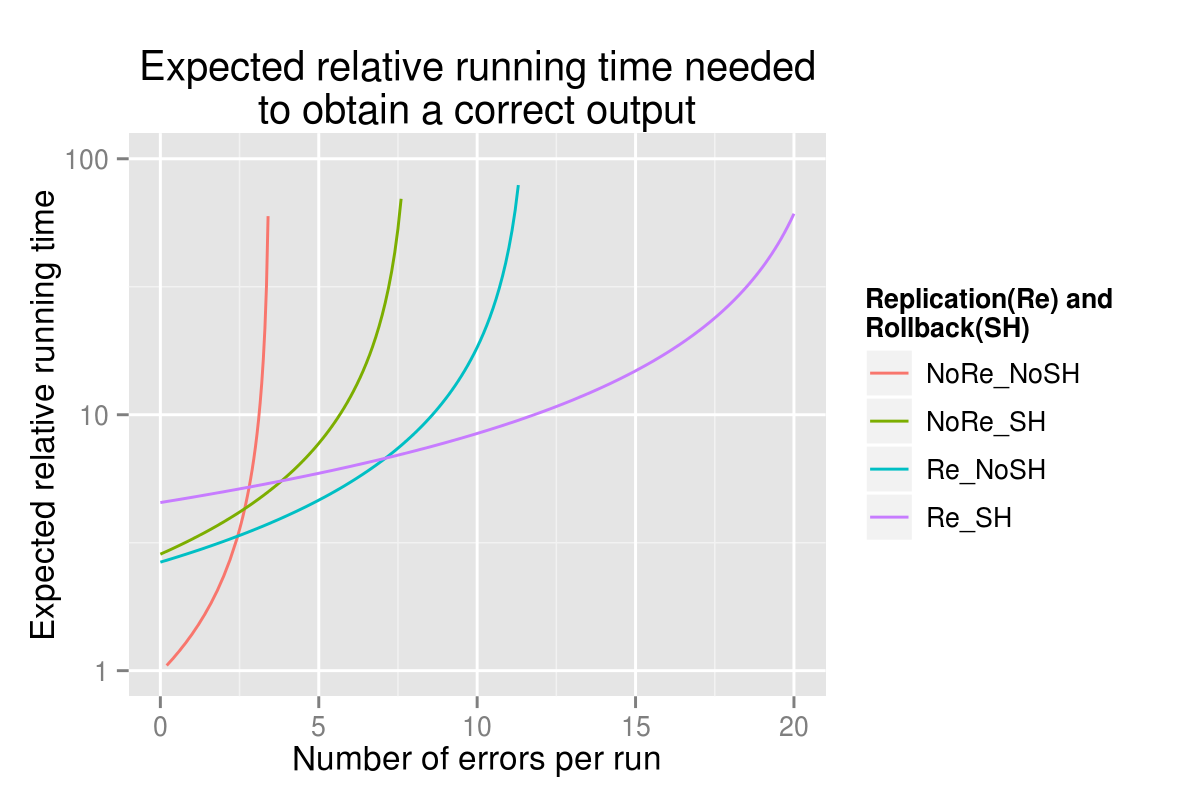
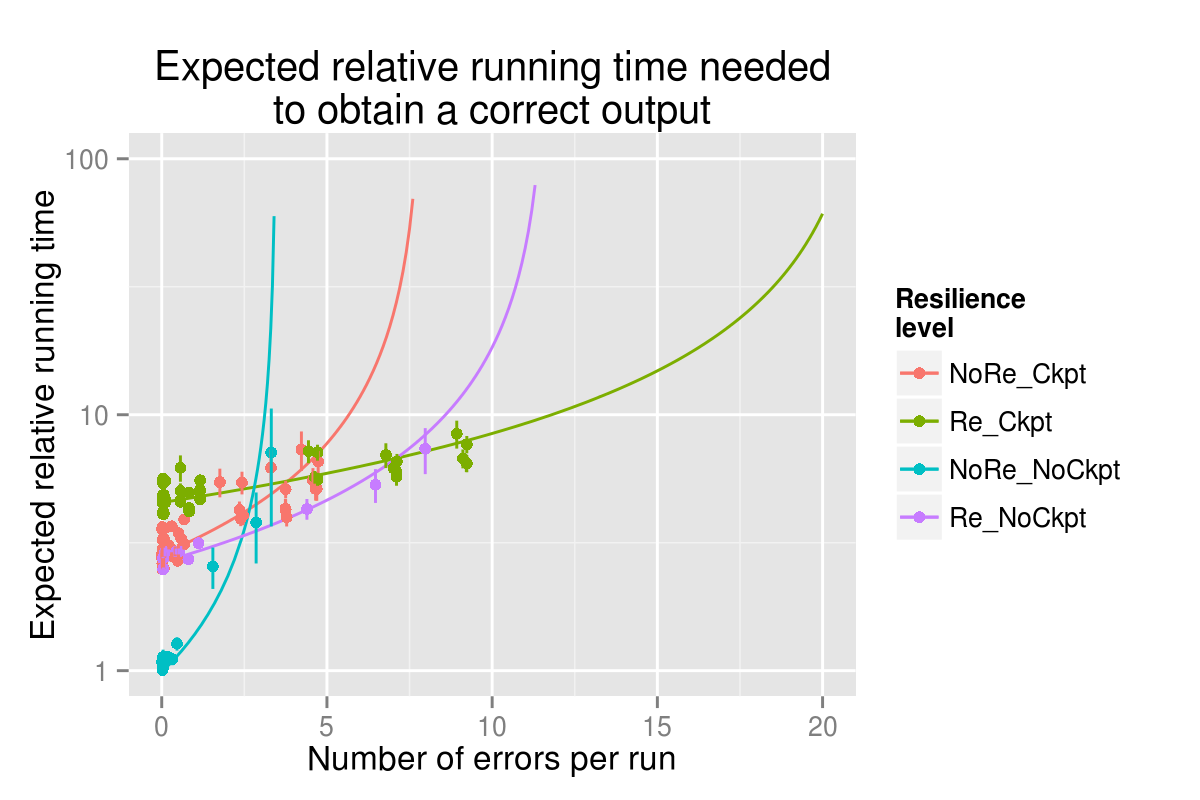
Application results; fixing some problems

diff --git a/paper.tex b/paper.tex
@@ -43,7 +43,7 @@ To provide comprehensive protection for the computations of HPC applications it 
 Algorithmic resilience can be very complex to deploy in applications because a comprehensive resilience strategy must address all the types of errors that an application may experience.
 This includes corruptions to numerical data as well as control information and data structures.
 Full protection requires the combination of multiple techniques including algorithmic error detection, crash detection, replication of key control information as well as support for restart when errors are detected.
-Further, it is necessary to configure the properties of the resilience mechanisms to make sure that they are cost-effectively meeting the user's accuracy and confidence targets.
+Further, it is necessary to configure the properties of the resilience mechanisms to make sure that they are cost-effectively meeting the user's accuracy and confidence targets. 
 This paper shows how all these issues can be resolved comprehensively in the context of three numeric applications.
 
 \end{abstract}
@@ -79,7 +79,7 @@ We show how these three applications can be comprehensively protected from soft 
 We demonstrate via fault injection experiments that although none of these techniques can individually protect applications from soft faults, their combination is highly effective.
 Further, we demonstrate how these techniques can be configured to offer the right level of protection at any given fault rate or input type.
 More specifically, these configurations can be used to produce a wide range of overheads and result accuracy levels and to tune the probabilistic confidence level that the given overhead or accuracy target will be met.
-\greg{Summarize real results}
+\greg{Summarize real results} \sui{A tighter algorithmic checker bounds can be enabled at low error rates to completely eliminate erroneous results at a lower overhead, while a more lenient algorithmic checker would allow the user to produce more acceptable results in face of a higher error rate (such as 1e-09).}
 
 The paper is organized as follows.
 Section~\ref{sec:soft_faults} discusses the problem of soft errors and presents the fault injection model we use to simulate them in our experiments.
@@ -129,8 +129,8 @@ According to our experiments, the running time of this solver is not dependent o
 The DRC program generates filters for HiFi audio systems to compensate for the reflection of sounds in a room, using impulse response measurements of the audio equipment and considering the positions of the listeners.
 The inputs are stored in Pulse Code Modulation (PCM) format, which is an array of 32-bit floating point numbers representing the samples at each sampling time step and the computations are performed using 32-bit precision.
 Although the algorithm is divided into many phases the most computationally intensive step consists of the GSL's implementation of the Fast Fourier Transform and an DRC-internal implementation of Finite Impulse Response filter generation.
-This program accepts user-controllable inputs to decide the width and number of iterations of FFT transforms it performs in these various phases.
-Different configurations would load the CPU for different lengths of time, virtually equivalent to inputs of different sizes.
+This program accepts user-controllable configurations to decide the width and number of iterations of FFT transforms it uses to perform various passes on the input file, such as windowing, deconvolution, pre- and post-filtering.
+Different configurations would load the CPU for different lengths of time, resulting in the program generating inputs of different sizes \sui{to the FFT routines.}.
 \greg{What inputs?}
 
 \subsection{Hattrick}
@@ -138,7 +138,7 @@ Different configurations would load the CPU for different lengths of time, virtu
 The Hattrick application simulates the motion of bodies under the effects of gravity using 64-bit precision.
 It is designed to help discover extra-solar planets by inferring their existence from Transit Timing Variations, where the difference between the times when a planet passes in front of its host star is used to infer the existence and properties of other planets in the system.
 This program spends most of its execution time in the GSL solver for Ordinary Differential Equations to solver the system's equations of motion.
-\greg{What inputs?}
+\greg{What inputs?} \sui{Input files are four different planetary systems. The first, third and fourth input files simulate one star and one planet and the second simulates one star and two planets. The third and fourth inputs are the same planetary system with different lengths of simulation time.}
 
 \section{Resilience Techniques}
 \label{sec:res_tech}
@@ -158,7 +158,7 @@ Finally, Section~\ref{sec:res_tech:eval} presents an experimental evaluation of 
 
 Each algorithm used by the above application was enhanced with an algorithm-specific checker that validated its results by exploiting some algorithmic identity.
 Each checker computes some aggregate property of the algorithm's results using two different algorithm to produce vectors $v$ and $v'$ and their relative difference by more than some threshold $\tau$, the checker declares that an error has occurred.
-The relative difference is computed as $\frac{\left|| v-v' \right||}{max(\left||v\right||, \left||v'\right||)}$ \greg{is this the right formula???}.
+The relative difference is computed as $\frac{\left|| v-v' \right||}{max(\left||v\right||, \left||v'\right||)}$ \greg{is this the right formula???} \sui{yes}.
 Each error detection causes the routine's execution to be restarted using the rollback mechanism described in Section~\ref{sec:res_tech:cr}.
 
 \paragraph{Matrix-matrix multiplication (MMM)}
@@ -251,6 +251,7 @@ Checkpoint data is protected using two different mechanisms.
 Pointers and scalars are replicated such that the checkpoint contains two copies of each.
 Arrays of floating point numbers are protected via a block-checksum-based error correcting code..
 By treating the input array as a matrix and comparing row sums and column sums of the submatrices of that matrix, we are able to detect the existence of errors and fix a fraction of the errors.
+\sui{This algorithm takes in an array of numbers, divide it into blocks of $N \cdot N$ numbers, computes and stores the row sums and column sums that are used for recovery. It is capable of correcting one corrupt element that does not share the same row or column with another element.}
 The protection mechanism has the following parameters:
 \begin{itemize}
 \item{\texttt{N}, the size of the error correcting sum block.}
@@ -262,10 +263,10 @@ This mechanism is able to correct up to $1/{n^2}$ of the elements in the input a
 The structure of each routine determines how checkpointing is deployed.
 All routines except RK are monolithic code blocks that take a relatively large amount of data as input, operate on it and then return.
 In contrast, RK takes in very little input and operates as a long sequence of steps, each of which involves a call to a user-provided derivative routine.
-As such, we checkpoint the state of non-RK routines immediately after the call to the routine and include in this checkpoint the routine's arguments and contents of the floating point input buffers \greg{is this correct?}.
+As such, we checkpoint the state of non-RK routines immediately after the call to the routine and include in this checkpoint the routine's arguments and contents of the floating point input buffers \greg{is this correct?} \sui{Yes}.
 The one exception is the FIR routine, which takes no input and thus requires only the processor's state to be checkpointed..
 Because RK's checkpoints are very small and it is more sensitive to errors, it is checkpointed periodically during its execution with a fixed number of steps between checkpoints.
-As our experiments \greg{where?} show, the choice of the RK checkpoint period significantly affects its efficiency with longer periods suffering from more overhead due to rollbacks and short period spending more time checkpointing.
+As our experiments \greg{where?} \sui{This should be ready tomorrow} show, the choice of the RK checkpoint period significantly affects its efficiency with longer periods suffering from more overhead due to rollbacks and short period spending more time checkpointing.
 
 \subsection{Evaluation of Subroutine Resilience}
 \label{sec:res_tech:eval}
@@ -290,7 +291,7 @@ This section evaluates the routines MMM, MVM, SYRK, CD, FFT and FIR.
 
 %Experiment 1: Measure performance degradation of using error detectors as input sizes increase. In case of RK if we can run a version that doesn't do the multiple step sizes, do so but if this is difficult then don't worry about it.
 We evaluate the costs of the above algorithmic error checkers by measuring their costs and effectiveness when running at different error rates on different types of inputs.
-Figure \ref{fig:routine_detect_ovhd} measures the overheads of employing the algorithmic error detectors when no errors are injected, reporting the average of \greg{???} runs.
+Figure \ref{fig:routine_detect_ovhd} measures the overheads of employing the algorithmic error detectors when no errors are injected, reporting the average of \greg{???} \sui{100} runs.
 The linear algebra routines were executed on $nxn$ square matrices where $n$ varies from 100 to 1000.
 FFT ran on inputs vectors with 128K to 4M entries and RK ran on an integral with intervals $[0, t_1]$ where $t_1 \in \{10, 15, 20, 25, 30, 50, 75, 100\}$. \greg{What function was being computed by RK?} \sui{The ODE system consists of a second-order nonlinear Van der Pol oscillator equation $x''(t)+\mu x'(t)(x(t)^2-1)+x(t)=0$}
 As our experiments show, the cost of algorithmic error detection is low and drops with increasing input sizes.
@@ -300,7 +301,7 @@ As our experiments show, the cost of algorithmic error detection is low and drop
 \centering
 \includegraphics[width=1.00\columnwidth]{figs/4_1_1_Overall_Breakdown.png}
 %\vspace{-5pt}
-\caption{Overhead of resilience techniques when no errors are injected}
+\caption{Overhead of resilience techniques when no errors are injected \sui{(Bars) and when errors are injected (points). (The SYRK overhead is from the old algorithm (the O($n^2 logn$) version; will update today! }}
 \label{fig:routine_all_ovhd}
 \end{figure}
 
@@ -311,12 +312,14 @@ Howveer, because MV runs quickly and because RK takes many checkpoints (\greg{wh
 
 Finally, Figure~\ref{fig:routine_exp_exec} documents the overhead of resilience when errors are injected into application execution, accounting for the slowdowns due to the resilience mechanisms as well as rollbacks due to error detections.
 Each routine's graph shows $\frac{\texttt{Time with Errors}}{\texttt{Time No Errors}}$, where the \texttt{Time with Errors} is average increase execution time of a resilient or non-resilient version of the routine when running on the same range of inputs as above, and \texttt{Time No Errors} is the execution time of the non-resilient version on the same inputs when no errors are injected.
-The graph for each routine reports this metric for all of the above input sizes, error injection rates between 1e-8 and 1e-11 \greg{confirm!} and all resilience configurations (no resilience and resilience with detection thresholds between 1e-6 and 1e-8), as the average time of \greg{???} runs.
-The data points within each figure are organized horizontally according to the average number of errors injected into runs with the given input size and at the given injection rate. \greg{Do the error counts include errors after rollbacks?}
+The graph for each routine reports this metric for all of the above input sizes, error injection rates between 1e-8 and \sui{(1e-8 is the highest error rate that we can have for most runs to complete) and 1e-10 (is the lowest error rate we would observe errors from mosts of the runs) } \greg{confirm!} and all resilience configurations (no resilience and resilience with detection thresholds between 1e-6 and 1e-8), as the average time of \greg{???} runs \sui{100 runs per configuration}.
+The data points within each figure are organized horizontally according to the average number of errors injected into runs with the given input size and at the given injection rate. \greg{Do the error counts include errors after rollbacks?} \sui{No, because the error count is the number of errors for Non-FT runs with errors. Since there is no FT and no checkpointing in these configurations, the number doesn't include errors after rollbacks. }
 This average error count is shown on the x-axis.
 All runs with the same resilience configuration are joined together into a line to highlight its properties.
 
-The data shows \greg{???}
+The data shows \greg{???} \sui{Soft errors may cause the routines to run longer due to rollback in attempt to correct the errors. The higher the error rate, the more likely rollback is to occur. For example, the Cholesky Decomposition routine with input size 100, when exposed to an error rate of 1e-06, would run on average twice as long as when no fault is injected. That means in this case, every one of the runs tend to have 100\% overhead. In some cases the algorithm would give up retrying after the fifth time because it is unable to recover from the corrupt inputs. For example, for FFT exposed at a fault rate of 1e-08, the average overhead, as computed by dividing the time spent in the fault-tolerance codes by the baseline running time, decreases, because more runs tend to early-terminate when too many elements in the input have been corrupted.}
+
+\sui{I will add a graph showing how many of the inputs have been corrupted and failed to recover. This is an important issue for FFT.}
 
 %%%%%%%%%%%%%%%%%%%%%%%%%%%%%%%%%%%%%%%%%%%%%%%%%%%%%
 \paragraph{Output Accuracy}
@@ -325,7 +328,7 @@ The data shows \greg{???}
 \begin{figure}[ht!]
 \centering
 \includegraphics[width=1.00\columnwidth]{figs/4_1_1_Exp2_1_Example.png}
-\caption{Error magnitude histogram showing the effectiveness of the error detector \greg{Why is FFT not improving with tighter threshold? Why is MM differently vulnerable than SYRK?} \sui{Reason for FFT: 1. Errors smaller than 10e-5 cannot be captured by the checker, even at low error rates, so this should be the fundamental limitation of the checker. 2. We actually are seeing reduction in large errors, but those large errors account for such a small fraction that they are not obviously visible on the graph.}}
+\caption{Error magnitude histogram showing the effectiveness of the error detector \greg{Why is FFT not improving with tighter threshold? Why is MM differently vulnerable than SYRK?} \sui{Reason for FFT: 1. Errors smaller than a certain value cannot be captured by the checker, even at low error rates, so this should be the fundamental limitation of the checker. 2. We actually are seeing reduction in large errors, but those large errors account for such a small fraction that they are not obviously visible on the graph. For the difference between MM and SYRK: MM is more vulnerable therefore the difference between ``corrected'' and ``not corrected'' would look more noticable.}}
 \label{fig:algo_err_dist}
 \end{figure}
 
@@ -351,6 +354,7 @@ The x-axis shows the different error magnitudes and the shade of each point is t
 Thus, each row of Figure~\ref{fig:algo_err_heatmap} represents the same information as each curve in Figure~\ref{fig:algo_err_dist}, with the shades of the squares representing the same information as the height of the line's points.
 
 \marc{The y-axis should show just the number of errors injected. We can say that we have used several fault injection rates and sizes to get those numbers. Right now the picture is confusing.}
+\sui{How does this look?}
 
 Figure~\ref{fig:algo_err_heatmap} shows the same information across the entire experimental space.
 The y-axis includes all algorithms, input sizes and error rates.
@@ -358,8 +362,10 @@ The x-axis includes several segments for different degrees of error checking: no
 The box associated with each combination of the four parameters the figure indicates the fraction of outputs that have an error of this magnitude by the shade of gray it is colored with, as indicated in the legend.
 The data shows that the accurate of application results is directly related to the number of errors that impact a given application run, rather than their rate.
 Further, it shows that a reduction of detection threshold is consistently effective at reducing the fraction of errors in each algorithm's output.
-However, the effectiveness of algorithmic checks has a limit, with CD and FFT showing moderate error vulnerability even at threshold 1e-8.
-MM, MV and SYRK are significantly less vulnerable across the full range of error magnitudes.
+%However, the effectiveness of algorithmic checks has a limit, with CD and FFT showing moderate error vulnerability even at threshold 1e-8.
+\sui{(Rephrase) However, the algorithmic checkers cannot cover 100\% of the errors for CD, FFT and FIR, mainly fixing errors of large magnitudes which turned out to be effective in real applications (refer to the imperfect run rate plot for DRC.)}
+%MM, MV and SYRK are significantly less vulnerable across the full range of error magnitudes.
+\sui{(Rephrase) The errors shown in MM, MV and SYRK are much more noticably fixed.}
 \greg{should reference vulnerability numbers more specifically}
 
 %Experiment 3: Measure the fraction fraction of routine runs that are interrupted by the detection of an error.
@@ -384,7 +390,7 @@ The difference between RK routine and others motivates special discussion of its
 Since RK's adaptive step size mechanism is already effective at tolerating many numerical errors we used it as the error detector for this routine without adjusting its tolerance parameters.
 The configurable portions of the RK resilience method are thus the choice of checkpointing and/or replication strategy.
 Configurations \texttt{Ckpt} and \texttt{NoChkpt} denote whether checkpointing was used and configurations \texttt{Re} and \texttt{NoRe} denote whether replication was used.
-\greg{What checkpointing period and replication properties?}
+\greg{What checkpointing period and replication properties?} \sui{Checkpointing: every 1/100/1000/10000/100000 calls to RK4 stepping function. Replication: No replication, using 1 pair of replicas and using maximum number of replicas.}
 
 \paragraph{Overheads}
 %\label{sec:res_tech:eval:ovhd}
@@ -398,7 +404,7 @@ Configurations \texttt{Ckpt} and \texttt{NoChkpt} denote whether checkpointing w
 \label{fig:rk_routine_detect_ovhd}
 \end{figure}
 
-Figure~\ref{fig:rk_routine_detect_ovhd} shows the overhead of employing each of the four RK resilience techniques when no errors are injected. \greg{This should be the same format as Figure~\ref{fig:routine_all_ovhd}}
+Figure~\ref{fig:rk_routine_detect_ovhd} shows the overhead of employing each of the four RK resilience techniques when no errors are injected. \greg{This should be the same format as Figure~\ref{fig:routine_all_ovhd}} 
 
 \begin{figure}[ht!]
 \centering
@@ -474,13 +480,13 @@ As with overhead, the choice of checkpointing interval and replication degree ma
 Having evaluated the resilience properties of the individual application routines and resilience techniques we now consider our three target applications ADDR, Hattrick and DRC.
 Section~\ref{sec:eval:perf} reports on the impact of errors and resilience techniques on application performance. Section~\ref{sec:eval:acc} describes the distribution of errors in the results of these applications.
 These results are based on a fault injection campaign that includes a range of fault injection rates, input sizes and configurations of resilience mechanisms, with 100 application runs for each combination of parameters.
-This corresponds to a total of \greg{???} error injection experiments.
+This corresponds to a total of \greg{???} \sui{66100 for lasso, 43200 for DRC, 102000 for Hattrick, as counted by my scripts.} error injection experiments.
 
 A given application run may terminate successfully or crash due to an unrecoverable error.
 Unrecoverable errors occur when there is a segmentation fault in code outside our protected routines or if 5 rollbacks of a routine have been observed in a given run since such repeated rollbacks almost always indicate that the corruption in application state cannot be repaired.
 Since we assume that the user needs application results regardless of the error rate, if the application crashes it is restarted from the beginning as many times as needed for it to complete.
 
-To evaluate the behavior of these applications in a broad range of error environments we considered error injection rates that range from 1e-16 \greg{???} errors per cycle of the LLVM virtual machine to 1e-6 errors per cycle.
+To evaluate the behavior of these applications in a broad range of error environments we considered error injection rates that range from 1e-16 \greg{???}\sui{Yes. At least this is the argument I sent to the injector.} errors per cycle of the LLVM virtual machine to 1e-6 errors per cycle.
 For reference, assuming a typical FIT of 100-100,000 for individual processing cores (FIT = failure in one billion hours of operation and this range has been experimentally observed for commodity electronics~\cite{mem_errors:2010, DRAMerr:2009}), an HPC system with one million cores will experience .1-100 errors per hour, which is equivalent to 3e-11 - 3e-14 errors per processor cycle on a 1Ghz processor.
 The range of error injection rates used used in our experiments were chosen such that (i) on average one or more errors were injected in the executions of our target applications and (ii) at least some application runs completed without crashing.
 Results for error rates that induce fewer than one error per run were extrapolated from our experiments with higher error rates.
@@ -492,7 +498,7 @@ This was done by considering only the runs where exactly one error was injected 
 \label{sec:eval:perf}
 
 Our fault injection experiments ran each application configuration to completion, recording whether it completed and if so, the magnitude of the error.
-We calculate the execution time of each configuration, accounting for application rollbacks via the formula $\frac{p_c*t_c}{1-p_f}$, where $p_c$ is the probability of a run completing, $t_c$ is the average completion time of such runs and $p_f$ is the probability of a run failing to complete\greg{is this right}.
+We calculate the execution time of each configuration, accounting for application rollbacks via the formula $\frac{p_c*t_c}{1-p_f}$, where $p_c$ is the probability of a run completing, $t_c$ is the average completion time of such runs and $p_f$ is the probability of a run failing to complete\greg{is this right}. \sui{I don't see anything wrong}
 Figures~\ref{fig:Lasso_EstdCost}, \ref{fig:DRC_EstdCost} and \ref{fig:Hattrick_EstdCost} show the expected execution time, relative to the execution time of the non-fault tolerant version of the application when no errors are injected.
 The graphs from left to right correspond to different application input sizes.
 Within each graph the x-axis corresponds to error injection rates, while the y-axis shows the relative execution time, both logarithmic.
@@ -504,11 +510,11 @@ This is the range of relative execution times at the given error rate and applic
 The confidence interval is computed by modeling the number of times application results will meet the error bound using a Binomial distribution.
 Given a binary random variable that is equal to 1 (i.e. error bound achieved) with probability $p$ and 0 (i.e. bound missed) with probability $1-p$ the Binomial distribution is the number of trials where it is 1.
 
-\greg{Sui, please confirm that the following is true}
+\greg{Sui, please confirm that the following is true}}
 The data shows that the non-fault tolerant ADDR and Hattrick shows little slowdown as a result of injected faults.
 This is because these applications spend most of its time in linear algebra and differential equation routines which are numerically-intensive but perform relatively few memory manipulations or pointer accesses.
 As such, until it reaches error rates of 1e-9 and above ADDR does not see a significant number of aborts due to memory errors.
-The result is that the addition of resilience techniques does little to improve ADDR's performance.
+The result is that the addition of resilience techniques does little to improve ADDR's performance. \sui{The addition of resilience techniques greatly improve its accuracy}}
 
 In contrast, since DRC performs many more integer operations and memory copies, it is more vulnerable to errors that corrupt the values of pointers or cause loads and stores to target invalid memory locations.
 Such errors cause memory segmentation faults, which force DRC to restart its execution and thus incur a very high overhead.
@@ -527,7 +533,7 @@ In contrast, the localized rollback and correction provided by our checkpointing
 \centering
 \includegraphics[width=2.00\columnwidth]{figs/DRC_EstdCost.png}
 \vspace{-10pt}
-\caption{Execution time of DRC relative to non-fault tolerant fault-free execution time \greg{Need confidence intervals}}
+\caption{Execution time of DRC relative to non-fault tolerant fault-free execution time \greg{Need confidence intervals} \sui{Added.}}
 \vspace{-10pt}
 \label{fig:DRC_EstdCost}
 \end{figure*}
@@ -536,7 +542,7 @@ In contrast, the localized rollback and correction provided by our checkpointing
 \centering
 \includegraphics[width=2.00\columnwidth]{figs/Hattrick_EstdCost.png}
 \vspace{-10pt}
-\caption{Execution time of Hattrick relative to non-fault tolerant fault-free execution time \greg{Need confidence intervals}}
+\caption{Execution time of Hattrick relative to non-fault tolerant fault-free execution time \greg{Need confidence intervals} \sui{Added.}}
 \vspace{-10pt}
 \label{fig:Hattrick_EstdCost}
 \end{figure*}
@@ -570,33 +576,36 @@ The x-axis in each graph shows the fault injection rate (logarithmic) while the 
 Each graph shows data for the non-fault tolerant version of the application (all points connected by the line) as well as all the the fault tolerant versions (optimal configurations connected by a line).
 The 95\% confidence interval is plotted and denoted range of probabilities that the error bound will be achieved at the given error rate and application configuration in 95\% of all trials.
 
-\greg{Sui, please confirm that the following is true}
+\greg{Sui, please confirm that the following is true} \sui{Yes. ADDR is sensitive to errors, and even a small number of error would cause noticable errors in the results. Comparing the leftmost data points on the ``probability of not satisfying'' graphs of the 3 applications.}
 The data shows that the probability that the non-fault tolerant version of ADDR satisfies the user-provided error bound is low, for bounds randing from 1e-10 to 1e-4.
-In contrast, the fault tolerant version of the application is significantly more successful, especially for error rates of 1e-12 and lower (\greg{need log plot to show the low accuracy rate more precisely}).
-\greg{Can mention the fact that the fault tolerant versions are most successful for loose error bounds and small inputs but the success rate is poor for the 10x input. Why?}
+In contrast, the fault tolerant version of the application is significantly more successful, especially for error rates of 1e-12 and lower (\greg{need log plot to show the low accuracy rate more precisely} \sui{Changed to log plot.}).
+\greg{Can mention the fact that the fault tolerant versions are most successful for loose error bounds and small inputs but the success rate is poor for the 10x input. Why?} \sui{I know why. After inspecting Lasso's code, it turns out Lasso contains TWO branches of code: one on ``fat'' matrices and the other on ``skinny'' matrices. Only 10x input triggers the ``fat matrix'' code and inputs 20 through 100 would trigger the ``skinny'' code. The two versions of code are not the same therefore they would be vulnerable to soft errors to different degrees.}
 
-\greg{I won't comment on the DRC errors because Sui is currently trying to improve them. Right now we're not being very successful. However, since DRC is a single precision code, we should really be considering much larger error bounds, like 1e-6 or 1e-4}.
+\greg{I won't comment on the DRC errors because Sui is currently trying to improve them. Right now we're not being very successful. However, since DRC is a single precision code, we should really be considering much larger error bounds, like 1e-6 or 1e-4}. \sui{Expanding the ranges makes sense. Plus, I think the range for Hattrick can be as tight as 1e-20. I have used 1e-17, 1e-14 and 1e-10 in the updated visualization.}
 
-\greg{Its hard to comment on Hattrick until we have a version of the plots with a logscale y-axis since it'll tell us exactly how successful the fault tolerant versions of the code are. Also, what are the relative execution times of these input files? This will give us an idea of how vulnerable they are.}
+\greg{Its hard to comment on Hattrick until we have a version of the plots with a logscale y-axis since it'll tell us exactly how successful the fault tolerant versions of the code are. Also, what are the relative execution times of these input files? This will give us an idea of how vulnerable they are.} \sui{Input 1=55s; Input 2=155s; Input 3=82s; Input 4=120s }
 
 \begin{figure*}[ht!]
 \centering
 \includegraphics[height=5in]{figs/Lasso_ImperfectRate.png}
-\caption{Probability of not satisfying the user-provided error bound for ADDR \greg{why do the probabilities of the no-FT version not change as the error threshold changes? Also, it may be good to show fewer columns but add graphs where the y-scale is a log-plot}}}
+\includegraphics[height=5in]{figs/Lasso_ImperfectRate_log.png}
+\caption{Probability of not satisfying the user-provided error bound for ADDR \greg{why do the probabilities of the no-FT version not change as the error threshold changes? Also, it may be good to show fewer columns but add graphs where the y-scale is a log-plot}} \sui{Added a log plot.}}
 \label{fig:Lasso_ImperfectRate}
 \end{figure*}
 
 \begin{figure*}[ht!]
 \centering
 \includegraphics[height=3in]{figs/DRC_ImperfectRate.png}
-\caption{Probability of not satisfying the user-provided error bound for DRC \greg{why do the probabilities of the no-FT version not change as the error threshold changes? Also, it may be good to show fewer columns but add graphs where the y-scale is a log-plot}}
+\includegraphics[height=3in]{figs/DRC_ImperfectRate_log.png}
+\caption{Probability of not satisfying the user-provided error bound for DRC \greg{why do the probabilities of the no-FT version not change as the error threshold changes? Also, it may be good to show fewer columns but add graphs where the y-scale is a log-plot} \sui{Added a log plot (on the right).}}
 \label{fig:DRC_ImperfectRate}
 \end{figure*}
 
 \begin{figure*}[ht!]
 \centering
 \includegraphics[height=3in]{figs/Hattrick_ImperfectRate.png}
-\caption{Probability of not satisfying the user-provided error bound for Hattrick \greg{why do the probabilities of the no-FT version not change as the error threshold changes? Also, it may be good to show fewer columns but add graphs where the y-scale is a log-plot}}
+\includegraphics[height=3in]{figs/Hattrick_ImperfectRate_log.png}
+\caption{Probability of not satisfying the user-provided error bound for Hattrick \greg{why do the probabilities of the no-FT version not change as the error threshold changes? Also, it may be good to show fewer columns but add graphs where the y-scale is a log-plot} \sui{The change is small therefore not visible on a linear scale. Switching to log plot revealed those tiny differences.}}
 \label{fig:Hattrick_ImperfectRate}
 \end{figure*}
 
